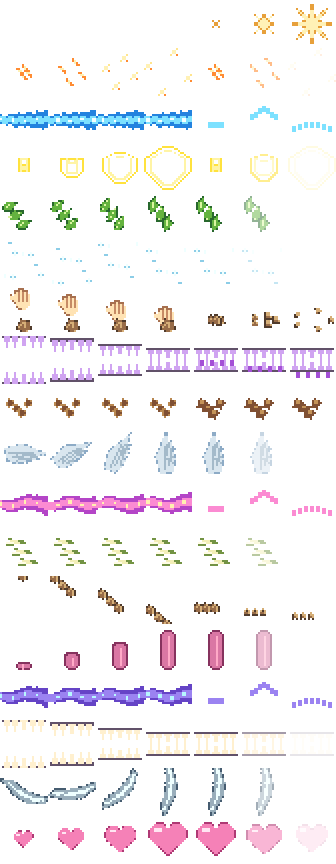
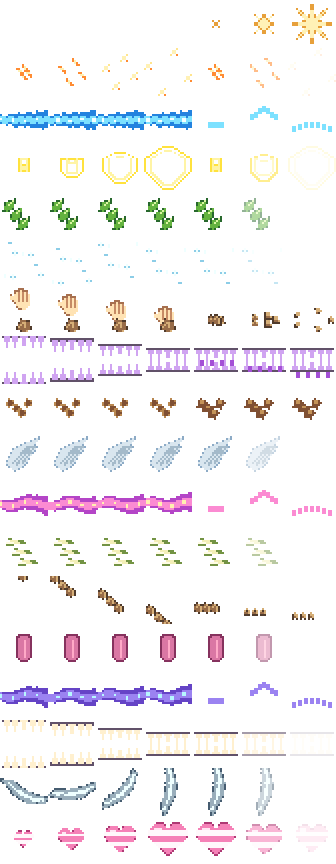
Make leaves and wings sweep through, stripe hearts and sweep tongue upwards

diff --git a/js/move-effects.js b/js/move-effects.js
@@ -14,16 +14,16 @@
     불꽃: { reach: 0, duration: 300 },
     물: { duration: 600, beam: true },
     전기: { reach: 0, duration: 300 },
-    풀: { duration: 300, since: 7 },
+    풀: { duration: 300, since: 7, passThrough: true },
     얼음: { reach: 0, duration: 350 },
     격투: { reach: 0, duration: 300 },
     독: { reach: 0, duration: 300, since: 3 },
     땅: { arc: 25, duration: 300 },
-    비행: { reach: 0, duration: 300 },
+    비행: { duration: 300, passThrough: true },
     에스퍼: { beam: true, duration: 450 },
     벌레: { reach: 0.45, duration: 300 },
     바위: { reach: 0, duration: 350 },
-    고스트: { reach: 0, duration: 350 },
+    고스트: { reach: 0, duration: 350, sweepUp: true },
     드래곤: { beam: true, duration: 500, since: 4 },
     악: { reach: 0, duration: 300 },
     강철: { reach: 0, duration: 300 },
@@ -34,7 +34,7 @@
   function loadSheet(style) {
     if (!sheets.has(style)) {
       const image = new Image();
-      image.src = new URL("../assets/effects/" + style + "/moves.png?v=distinct-moves-4", scriptUrl);
+      image.src = new URL("../assets/effects/" + style + "/moves.png?v=sweep-moves-5", scriptUrl);
       sheets.set(style, image.decode().then(() => image, () => {
         sheets.delete(style);
         return null;
@@ -109,6 +109,7 @@
         }
         return playFrames(canvas, await waitForSheet(sheet, signal), row, 0, style.flight, (move.duration ?? 245) * effectDurationScale, signal, (t) => {
           if (move.beam) return [0, 0];
+          if (move.sweepUp) return [0, 28 - 56 * t];
           const remaining = 1 - t;
           const reach = move.reach ?? 1;
           const arc = (move.arc ?? 0) * Math.sin(Math.PI * t);
@@ -129,7 +130,10 @@
         canvas.style.rotate = "";
         canvas.style.transform = "";
         canvas.style.transformOrigin = "";
-        return playFrames(canvas, await waitForSheet(sheet, signal), row, style.flight, style.impact, 175 * effectDurationScale, signal, () => [0, 0]);
+        return playFrames(canvas, await waitForSheet(sheet, signal), row, style.flight, style.impact, 175 * effectDurationScale, signal, (t) => {
+          if (move.passThrough) return [-dx * 0.35 * t, -dy * 0.35 * t];
+          return move.sweepUp ? [0, -28] : [0, 0];
+        });
       },
     };
   }

diff --git a/index.html b/index.html
@@ -7,10 +7,10 @@
   <link rel="stylesheet" href="https://cdn.jsdelivr.net/npm/galmuri@2.40.3/dist/galmuri.css">
   <link rel="stylesheet" href="css/base.css">
   <link rel="stylesheet" href="css/layout.css">
-  <link rel="stylesheet" href="css/battle.css?v=distinct-moves-4">
-  <script src="js/data.js?v=distinct-moves-4" defer></script>
-  <script src="js/move-effects.js?v=distinct-moves-4" defer></script>
-  <script src="js/battle.js?v=distinct-moves-4" defer></script>
+  <link rel="stylesheet" href="css/battle.css?v=sweep-moves-5">
+  <script src="js/data.js?v=sweep-moves-5" defer></script>
+  <script src="js/move-effects.js?v=sweep-moves-5" defer></script>
+  <script src="js/battle.js?v=sweep-moves-5" defer></script>
   <script src="js/main.js" defer></script>
 </head>
 <body>

diff --git a/assets/effects/build-sheets.py b/assets/effects/build-sheets.py
@@ -85,9 +85,9 @@ def frame(move,index,count,style,impact):
             else:
                 d.polygon([(x-3,y),(x-1,y-4),(x+4,y-2),(x+3,y+3),(x-2,y+4)],fill="#805033",outline="#b98851")
     elif move=="고스트":
-        top=39-round(t*32) if not impact else 7
-        d.rounded_rectangle((17,top,31,45),radius=5,fill="#da77a4",outline="#86325e",width=2)
-        d.line((24,top+6,24,41),fill="#ffa9c7",width=2)
+        top=10
+        d.rounded_rectangle((17,top,31,37),radius=5,fill="#da77a4",outline="#86325e",width=2)
+        d.line((24,top+6,24,33),fill="#ffa9c7",width=2)
     elif move=="불꽃":
         for i in range(detail+1):
             a=i*math.pi*2/(detail+1)+0.3
@@ -120,12 +120,20 @@ def frame(move,index,count,style,impact):
                 d.rectangle((x,y,x+2,y+4),fill="#a450d6")
     elif move=="풀":
         for i in range(detail):
-            part=leaf().rotate(-25+round(t*55),resample=Image.Resampling.NEAREST,expand=True)
+            part=leaf()
             stamp(im,part,9+i*7,14+i%3*9)
     elif move=="페어리":
         heart=Image.new("RGBA",(40,36));h=ImageDraw.Draw(heart)
         h.polygon([(20,34),(1,16),(1,8),(8,1),(15,1),(20,7),(25,1),(32,1),(39,8),(39,16)],fill="#f581b7",outline="#af3974")
-        h.rectangle((7,6,13,9),fill="#ffe5f2")
+        mask=heart.getchannel("A")
+        stripes=Image.new("RGBA",heart.size)
+        stripe_draw=ImageDraw.Draw(stripes)
+        for stripe_y in (9,21):
+            stripe_draw.rectangle((0,stripe_y,39,stripe_y+4),fill="#fff8fb")
+        stripes.putalpha(Image.composite(stripes.getchannel("A"),Image.new("L",heart.size),mask))
+        heart.alpha_composite(stripes)
+        h=ImageDraw.Draw(heart)
+        h.rectangle((7,6,13,8),fill="#ffe5f2")
         size=round((0.5+0.5*t)*40) if not impact else round(40*(1-0.15*t))
         heart=heart.resize((size,round(size*.9)),Image.Resampling.NEAREST)
         stamp(im,heart,24,24)
@@ -138,7 +146,7 @@ def frame(move,index,count,style,impact):
         wing=Image.new("RGBA",(48,48));w=ImageDraw.Draw(wing)
         w.polygon([(5,32),(14,16),(40,5),(32,18),(38,15),(28,28),(33,24),(23,35),(15,39)],fill="#d9e6ef",outline="#8dabc6")
         for i in range(3):w.line((12+i*5,32,29+i*3,14),fill="#a4baca",width=2)
-        im=wing.rotate(-45+round(t*90),resample=Image.Resampling.NEAREST)
+        im=wing
     if impact and move not in ("노말","물","드래곤","에스퍼","격투","바위","땅","독"):
         # Fade out the completed move rather than restarting its trajectory.
         im.putalpha(im.getchannel("A").point(lambda value:round(value*(1-t*.85))))
